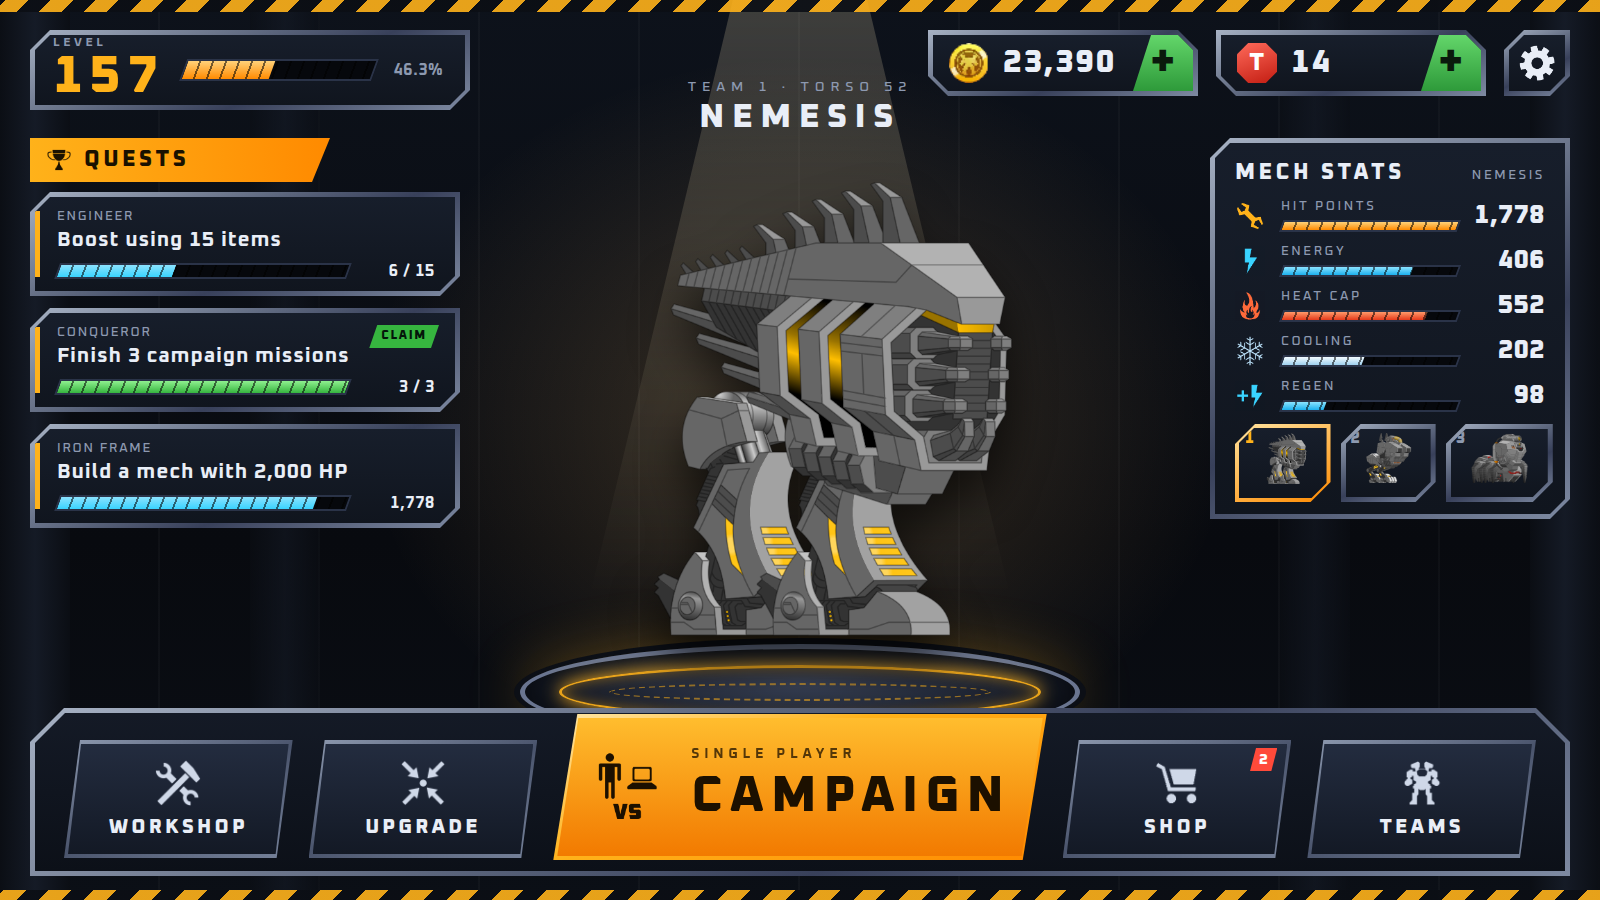
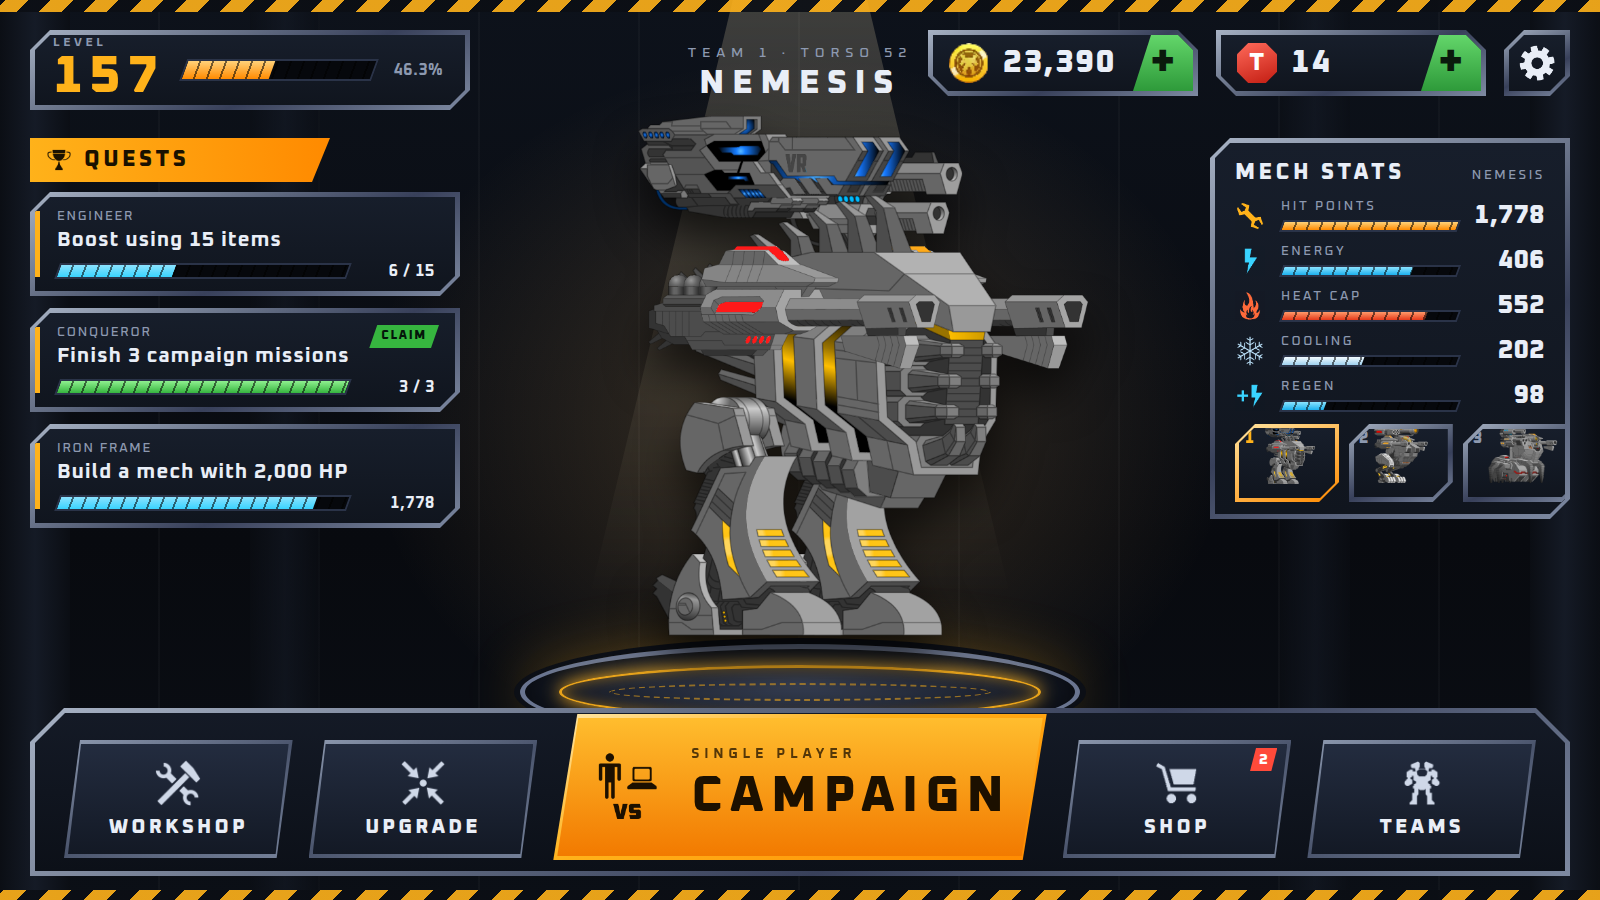
Assemble UI mocks' mechs the way the game does
Rebuilt from BMMechView.as: parts hang off the torso's mcCenter, each
part's own mcTorso lands on the torso anchor, and the draw order puts the
far leg and far weapons behind the torso. Adds top and side weapons.
Generated by ui/mocks/build_mechs.py. Also fixes label overlaps in B and C.

Claude-Session: https://claude.ai/code/session_016EMeU7WbdybdkHaQ4QiAx5

Changed region(s): [[0.375, 0.0311, 0.6875, 0.7156], [0.7812, 0.4667, 0.9688, 0.56]]

diff --git a/ui/mocks/assets/mech.js b/ui/mocks/assets/mech.js
@@ -1,5 +1,6 @@
-// Assembled from the game's own torso and leg sprites using their attachment anchors.
-window.MECHS={"m1": {"w": 614, "h": 749, "parts": [{"src": "assets/mechs/leg73D_phys.png", "x": 98, "y": 397, "z": 1}, {"src": "assets/mechs/leg73D_phys.png", "x": 246, "y": 397, "z": 2}, {"src": "assets/mechs/torso52_phys.png", "x": 0, "y": 0, "z": 3}]}, "m2": {"w": 536, "h": 689, "parts": [{"src": "assets/mechs/leg67D_phys.png", "x": 1, "y": 337, "z": 1}, {"src": "assets/mechs/leg67D_phys.png", "x": 121, "y": 337, "z": 2}, {"src": "assets/mechs/torso46_phys.png", "x": 0, "y": 0, "z": 3}]}, "m3": {"w": 608, "h": 617, "parts": [{"src": "assets/mechs/leg77D_heat.png", "x": 0, "y": 319, "z": 1}, {"src": "assets/mechs/leg77D_heat.png", "x": 120, "y": 319, "z": 2}, {"src": "assets/mechs/torso47_phys.png", "x": 107, "y": 0, "z": 3}]}};
+// Generated by ui/mocks/build_mechs.py from the game's own sprites and anchors.
+window.MECHS={"m1": {"w": 740, "h": 766, "parts": [{"src": "assets/mechs/sideRifle1E.png", "x": 310, "y": 192, "z": 1, "slot": "side2"}, {"src": "assets/mechs/cannon1A_elec.png", "x": 272, "y": 44, "z": 2, "slot": "top2"}, {"src": "assets/mechs/leg73D_phys.png", "x": 246, "y": 414, "z": 3, "slot": "leg2"}, {"src": "assets/mechs/torso52_phys.png", "x": 0, "y": 18, "z": 4, "slot": "torso"}, {"src": "assets/mechs/topBlaster3E.png", "x": 77, "y": 0, "z": 5, "slot": "top1"}, {"src": "assets/mechs/leg73D_phys.png", "x": 98, "y": 414, "z": 6, "slot": "leg1"}, {"src": "assets/mechs/sideRifle2E.png", "x": 92, "y": 192, "z": 7, "slot": "side1"}]}, "m2": {"w": 639, "h": 689, "parts": [{"src": "assets/mechs/sideRifle2E.png", "x": 209, "y": 127, "z": 1, "slot": "side2"}, {"src": "assets/mechs/topBeam2E_phys.png", "x": 148, "y": 2, "z": 2, "slot": "top2"}, {"src": "assets/mechs/leg67D_phys.png", "x": 133, "y": 337, "z": 3, "slot": "leg2"}, {"src": "assets/mechs/torso46_phys.png", "x": 12, "y": 0, "z": 4, "slot": "torso"}, {"src": "assets/mechs/topMachineGun1B_heat.png", "x": 0, "y": 13, "z": 5, "slot": "top1"}, {"src": "assets/mechs/leg67D_phys.png", "x": 13, "y": 337, "z": 6, "slot": "leg1"}, {"src": "assets/mechs/sideRifle1E.png", "x": 5, "y": 127, "z": 7, "slot": "side1"}]}, "m3": {"w": 735, "h": 617, "parts": [{"src": "assets/mechs/sideRifle1E.png", "x": 305, "y": 93, "z": 1, "slot": "side2"}, {"src": "assets/mechs/leg77D_heat.png", "x": 120, "y": 319, "z": 2, "slot": "leg2"}, {"src": "assets/mechs/torso47_phys.png", "x": 107, "y": 0, "z": 3, "slot": "torso"}, {"src": "assets/mechs/cannon1A_elec.png", "x": 122, "y": 21, "z": 4, "slot": "top1"}, {"src": "assets/mechs/leg77D_heat.png", "x": 0, "y": 319, "z": 5, "slot": "leg1"}, {"src": "assets/mechs/cannon3C.png", "x": 129, "y": 97, "z": 6, "slot": "side1"}]}};
+
 window.buildMech=function(el,key,heightPx){const m=window.MECHS[key];el.style.position='relative';el.style.width=m.w+'px';el.style.height=m.h+'px';
  for(const p of m.parts){const i=document.createElement('img');i.src=p.src;i.draggable=false;i.style.cssText='position:absolute;left:'+p.x+'px;top:'+p.y+'px;z-index:'+p.z+';max-width:none';el.appendChild(i);}
  if(heightPx){const s=heightPx/m.h;el.style.transformOrigin='0 0';el.style.transform='scale('+s+')';el.dataset.w=m.w*s;el.dataset.h=heightPx;el.style.marginRight=(-(m.w-m.w*s))+'px';el.style.marginBottom=(-(m.h-heightPx))+'px';}

diff --git a/ui/mocks/A-blueprint.html b/ui/mocks/A-blueprint.html
@@ -68,7 +68,7 @@ html,body{height:100%;background:#0b1020;overflow:hidden}
 .pad{position:absolute;left:700px;top:640px;width:640px;height:58px;background:repeating-linear-gradient(-55deg,var(--yellow) 0 22px,var(--ink) 22px 44px);border:4px solid var(--ink);transform:skewX(-30deg);box-shadow:8px 10px 0 var(--ink)}
 .pad::after{content:"";position:absolute;left:0;right:0;top:0;height:16px;background:var(--ink)}
 .shadow{position:absolute;left:800px;top:648px;width:440px;height:30px;border-radius:50%;background:rgba(11,16,32,.35);filter:blur(6px)}
-#mech{position:absolute;left:800px;top:104px;filter:drop-shadow(10px 12px 0 rgba(11,16,32,.28))}
+#mech{position:absolute;left:830px;top:140px;filter:drop-shadow(10px 12px 0 rgba(11,16,32,.28))}
 
 /* callouts */
 .co{position:absolute;color:#fff;display:flex;align-items:baseline;gap:10px;white-space:nowrap}
@@ -134,8 +134,8 @@ svg.lines circle{fill:#fff;stroke:var(--ink);stroke-width:3}
 
   <!-- callouts -->
   <svg class="lines" viewBox="0 0 1600 900">
-    <line x1="1000" y1="232" x2="1320" y2="232"/><circle cx="1000" cy="232" r="9"/>
-    <line x1="1085" y1="318" x2="1320" y2="318"/><circle cx="1085" cy="318" r="9"/>
+    <line x1="1080" y1="240" x2="1320" y2="240"/><circle cx="1080" cy="240" r="9"/>
+    <line x1="1150" y1="330" x2="1320" y2="330"/><circle cx="1150" cy="330" r="9"/>
     <line x1="1030" y1="410" x2="1320" y2="410"/><circle cx="1030" cy="410" r="9"/>
     <line x1="975" y1="540" x2="1320" y2="540"/><circle cx="975" cy="540" r="9"/>
   </svg>
@@ -157,7 +157,7 @@ svg.lines circle{fill:#fff;stroke:var(--ink);stroke-width:3}
 <script>
 fitStage();
 function place(id,key,h){const w=document.getElementById(id);const i=document.createElement('div');buildMech(i,key,h);w.appendChild(i);w.style.width=i.dataset.w+'px';w.style.height=i.dataset.h+'px';}
-place('mech','m1',540);
+place('mech','m1',496);
 place('t1','m1',64);place('t2','m2',64);place('t3','m3',64);
 </script>
 </body></html>

diff --git a/ui/mocks/C-showroom.html b/ui/mocks/C-showroom.html
@@ -115,21 +115,11 @@ svg.conn path{fill:none;stroke:#fff;stroke-width:2.5;stroke-dasharray:1 7;stroke
   <!-- mech + exploded parts -->
   <div class="floor"></div>
   <div id="mech"></div>
-  <img class="part" src="assets/parts/topBlaster3E.png" style="left:700px;top:150px;width:250px;transform:rotate(-16deg)" alt="">
-  <img class="part" src="assets/parts/cannon1A_elec.png" style="left:1210px;top:300px;width:200px;transform:rotate(14deg)" alt="">
-  <img class="part" src="assets/parts/rocketLauncher22A_phys.png" style="left:1300px;top:520px;width:150px;transform:rotate(-24deg)" alt="">
-  <img class="part" src="assets/parts/topMachineGun1B_heat.png" style="left:640px;top:520px;width:210px;transform:rotate(-28deg)" alt="">
-  <svg class="conn" viewBox="0 0 1600 900">
-    <path d="M900 250 C 980 250, 1000 300, 1040 340"/>
-    <path d="M1230 340 C 1180 340, 1150 370, 1110 400"/>
-    <path d="M1310 540 C 1240 540, 1180 520, 1120 490"/>
-    <path d="M800 560 C 860 560, 900 540, 960 510"/>
-  </svg>
-  <div class="tagd" style="left:700px;top:118px"><i></i>Top blaster</div>
-  <div class="tagd" style="left:1190px;top:262px"><i></i>Top cannon · electric</div>
-  <div class="tagd" style="left:1300px;top:610px"><i></i>Rocket launcher</div>
-  <div class="tagd" style="left:620px;top:592px"><i></i>Machine gun · heat</div>
-
+  
+        
+  <div class="tagd" style="left:690px;top:118px"><i></i>Top blaster</div>
+  <div class="tagd" style="left:1240px;top:300px"><i></i>Side rifles</div>
+  <div class="tagd" style="left:1130px;top:585px"><i></i>Heavy legs</div>
   <!-- dock -->
   <div class="pill dock">
     <div class="ni"><i class="mask" style="--i:url(assets/icons/interface_hanger.png)"></i><span>Workshop</span></div>

diff --git a/ui/mocks/B-night-shift.html b/ui/mocks/B-night-shift.html
@@ -87,7 +87,7 @@ html,body{height:100%;background:#000;overflow:hidden}
 .pf{position:absolute;left:520px;top:644px;width:560px;height:96px;border-radius:50%;background:radial-gradient(ellipse at 50% 40%,#3a4358,#141925 70%);border:5px solid #6a7590;box-shadow:0 0 0 6px #0c0f16,0 0 60px rgba(255,178,26,.32),inset 0 0 40px rgba(0,0,0,.6)}
 .pf::before{content:"";position:absolute;inset:16px 34px;border-radius:50%;border:3px solid var(--amber);opacity:.9;box-shadow:0 0 18px var(--amber),inset 0 0 14px rgba(255,178,26,.5)}
 .pf::after{content:"";position:absolute;inset:34px 84px;border-radius:50%;border:2px dashed rgba(255,178,26,.55)}
-.name{position:absolute;left:520px;width:560px;top:78px;text-align:center;z-index:6;pointer-events:none}
+.name{position:absolute;left:520px;width:560px;top:44px;text-align:center;z-index:6;pointer-events:none}
 .name small{display:block;font-size:14px;letter-spacing:.42em;color:var(--dim)}
 .name b{display:block;font-size:34px;font-weight:800;letter-spacing:.22em}
 

diff --git a/ui/mocks/build_mechs.py b/ui/mocks/build_mechs.py
@@ -1,0 +1,117 @@
+"""Assemble mechs for the UI mocks exactly the way the game does.
+
+Rules taken from the decompiled client
+(extracted/reloaded-7.628.4-scripts/bmmClientCC/.../mobiles/BMMechView.as, buildItem + constructor):
+  * the torso is placed so its mcCenter sits at the mech origin
+  * every other part's holder sits at  torsoAnchor - torso.mcCenter  (mcLeg1/2, mcSide1-4, mcTop1/2)
+    and the part's art is offset so ITS OWN mcTorso lands on that holder origin
+  * back-to-front draw order in itemsHolder:
+      SIDE_2, SIDE_4, TOP_2, (harpoon), LEG_2, DRONE, TORSO, TOP_1, LEG_1, SIDE_1, SIDE_3
+    so the far leg and far weapons sit behind the torso, the near ones in front.
+Anchors are 1x, sprite PNGs are 2x, hence S = 2.
+
+Run from the repo root:  python ui/mocks/build_mechs.py
+Writes ui/mocks/assets/mech.js and copies the used sprites to ui/mocks/assets/mechs/.
+"""
+import glob, json, os, shutil, struct
+
+ROOT = os.path.dirname(os.path.dirname(os.path.dirname(os.path.abspath(__file__))))
+MOCKS = os.path.join(ROOT, "ui", "mocks")
+S = 2
+ORDER = ["side2", "side4", "top2", "leg2", "torso", "top1", "leg1", "side1", "side3"]
+
+items = {i["id"]: i for i in json.load(open(os.path.join(ROOT, "data", "items_selected.json")))["items"]}
+
+
+def sprite_path(name):
+    hits = glob.glob(os.path.join(ROOT, "Plans", "**", name + ".png"), recursive=True)
+    hits = [h for h in hits if "_archive" not in h]
+    if not hits:
+        raise SystemExit("missing sprite " + name)
+    return hits[0]
+
+
+def png_size(p):
+    with open(p, "rb") as f:
+        f.read(16)
+        return struct.unpack(">II", f.read(8))
+
+
+def base_id(name):
+    """torso52_phys -> torso52 ; sideRifle1E -> sideRifle1E"""
+    for suffix in ("_phys", "_heat", "_elec"):
+        if name.endswith(suffix):
+            return name[: -len(suffix)]
+    return name
+
+
+def anchors(name):
+    a = items[base_id(name)].get("anchors")
+    if not a:
+        raise SystemExit("no anchors for " + name)
+    return a
+
+
+def assemble(loadout):
+    """loadout: dict slot -> sprite name. Returns {w,h,parts}."""
+    torso = loadout["torso"]
+    ta = anchors(torso)
+    cx, cy = ta["mcCenter"]
+    placed = []  # (slot, sprite, x, y) in 2x px, origin = mech origin (torso mcCenter)
+    for slot in ORDER:
+        name = loadout.get(slot)
+        if not name:
+            continue
+        w, h = png_size(sprite_path(name))
+        if slot == "torso":
+            x, y = -cx * S, -cy * S
+        else:
+            key = {"leg1": "mcLeg1", "leg2": "mcLeg2", "top1": "mcTop1", "top2": "mcTop2",
+                   "side1": "mcSide1", "side2": "mcSide2", "side3": "mcSide3", "side4": "mcSide4"}[slot]
+            if key not in ta:
+                raise SystemExit("%s has no %s" % (torso, key))
+            pa = anchors(name)["mcTorso"]
+            x = (ta[key][0] - cx) * S - pa[0] * S
+            y = (ta[key][1] - cy) * S - pa[1] * S
+        placed.append((slot, name, x, y, w, h))
+    x0 = min(p[2] for p in placed)
+    y0 = min(p[3] for p in placed)
+    x1 = max(p[2] + p[4] for p in placed)
+    y1 = max(p[3] + p[5] for p in placed)
+    parts = []
+    for z, (slot, name, x, y, w, h) in enumerate(placed, 1):
+        dst = "assets/mechs/%s.png" % name
+        os.makedirs(os.path.join(MOCKS, "assets", "mechs"), exist_ok=True)
+        shutil.copy(sprite_path(name), os.path.join(MOCKS, dst))
+        parts.append({"src": dst, "x": round(x - x0), "y": round(y - y0), "z": z, "slot": slot})
+    return {"w": round(x1 - x0), "h": round(y1 - y0), "parts": parts}
+
+
+LOADOUTS = {
+    # Brutality torso, chunky legs, two rifles and two top guns
+    "m1": {"torso": "torso52_phys", "leg1": "leg73D_phys", "leg2": "leg73D_phys",
+           "top1": "topBlaster3E", "top2": "cannon1A_elec",
+           "side1": "sideRifle2E", "side2": "sideRifle1E"},
+    "m2": {"torso": "torso46_phys", "leg1": "leg67D_phys", "leg2": "leg67D_phys",
+           "top1": "topMachineGun1B_heat", "top2": "topBeam2E_phys",
+           "side1": "sideRifle1E", "side2": "sideRifle2E"},
+    "m3": {"torso": "torso47_phys", "leg1": "leg77D_heat", "leg2": "leg77D_heat",
+           "top1": "cannon1A_elec", "side1": "cannon3C", "side2": "sideRifle1E"},
+}
+
+JS_TAIL = """
+window.buildMech=function(el,key,heightPx){const m=window.MECHS[key];el.style.position='relative';el.style.width=m.w+'px';el.style.height=m.h+'px';
+ for(const p of m.parts){const i=document.createElement('img');i.src=p.src;i.draggable=false;i.style.cssText='position:absolute;left:'+p.x+'px;top:'+p.y+'px;z-index:'+p.z+';max-width:none';el.appendChild(i);}
+ if(heightPx){const s=heightPx/m.h;el.style.transformOrigin='0 0';el.style.transform='scale('+s+')';el.dataset.w=m.w*s;el.dataset.h=heightPx;el.style.marginRight=(-(m.w-m.w*s))+'px';el.style.marginBottom=(-(m.h-heightPx))+'px';}
+ return el;};
+window.fitStage=function(){const st=document.querySelector('.stage');function f(){const s=Math.min(innerWidth/1600,innerHeight/900);st.style.transform='scale('+s+')';st.style.left=((innerWidth-1600*s)/2)+'px';st.style.top=((innerHeight-900*s)/2)+'px';}f();addEventListener('resize',f);};
+"""
+
+if __name__ == "__main__":
+    out = {k: assemble(v) for k, v in LOADOUTS.items()}
+    for k, v in out.items():
+        print(k, v["w"], v["h"], [p["slot"] for p in v["parts"]])
+    with open(os.path.join(MOCKS, "assets", "mech.js"), "w") as f:
+        f.write("// Generated by ui/mocks/build_mechs.py from the game's own sprites and anchors.\n")
+        f.write("window.MECHS=%s;\n" % json.dumps(out))
+        f.write(JS_TAIL)
